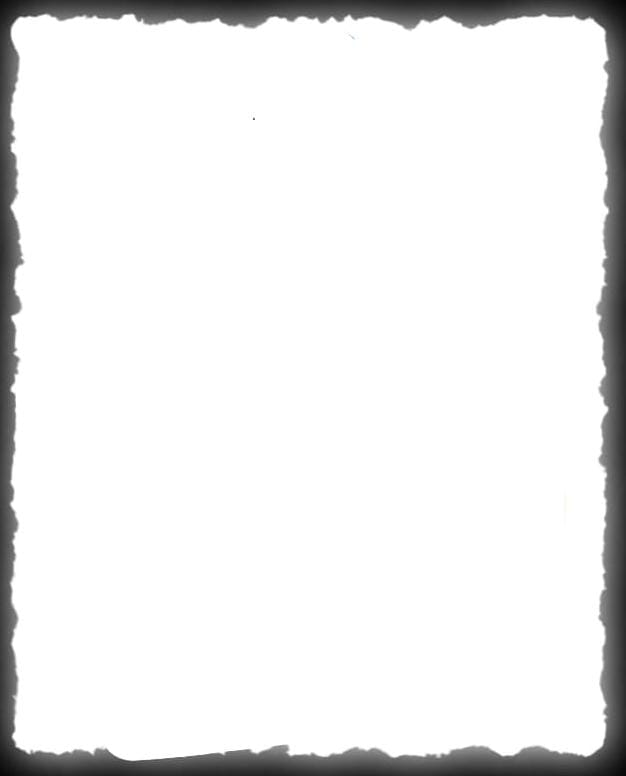
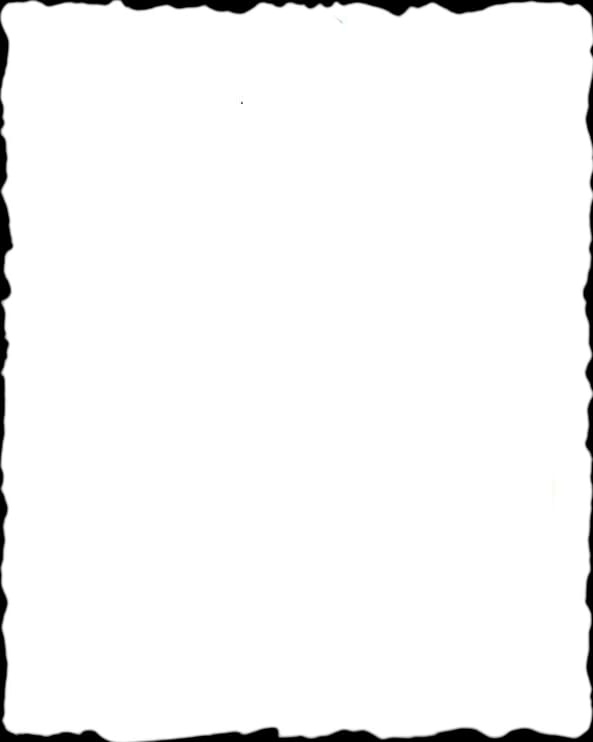
perfect

Changed region(s): [[0.0, 0.0, 1.0, 1.0]]

diff --git a/style.css b/style.css
@@ -69,7 +69,7 @@ body {
     .name {
         left: 10%;
         font-size: 13px;
-        width: 90%;
+        width: 70%;
         white-space: normal;
         padding: 15px 30px;
     }
@@ -158,20 +158,19 @@ p {
 
 .dream-card {
     background:
-        linear-gradient(rgba(220, 215, 215, 0.85), rgba(200, 192, 192, 0.85)),
-        url('./image/background.jpg') center/cover no-repeat;
+        url('./image/backgroung.png') center/cover no-repeat;
     border: 0px solid #201f1f;
     border-radius: 24px;
     box-shadow: 0 0  rgba(227, 218, 218, 0.533);
-    padding: 1.5rem 1rem 1.5rem 1rem;
-    width: 340px;
+    padding: 1.5rem 1.5rem 2rem 1.5rem;
+    width: 500px;
     display: flex;
     flex-direction: column;
     align-items: center;
     position: absolute;
     top: 50%;
     left: 50%;
-    min-height: 450px;
+    min-height: 300px;
     filter: drop-shadow(0 0 0px #545353);
     opacity: 0;
 }
@@ -217,15 +216,15 @@ p {
 }
 
 .emojis {
-    font-size: 1rem;
-    margin-bottom: 0.5rem;
+    font-size: 1.5rem;
+    margin-bottom: -0.2rem;
     margin-top: 0.5rem;
     z-index: 1;
 }
 
 .dream-img {
-    width: 90%;
-    height: 300px;
+    width: 70%;
+    height: 400px;
     object-fit: cover;
     object-position: top;
     border-radius: 8px;
@@ -238,8 +237,8 @@ p {
 
 .dream-text {
     font-family: 'Kristi', cursive;
-    font-size: 1.9rem;
-    margin-top: 0.5rem;
+    font-size: 2.7rem;
+    margin-top: -1.0rem;
     color: #222;
     text-align: center;
     z-index: 1;
